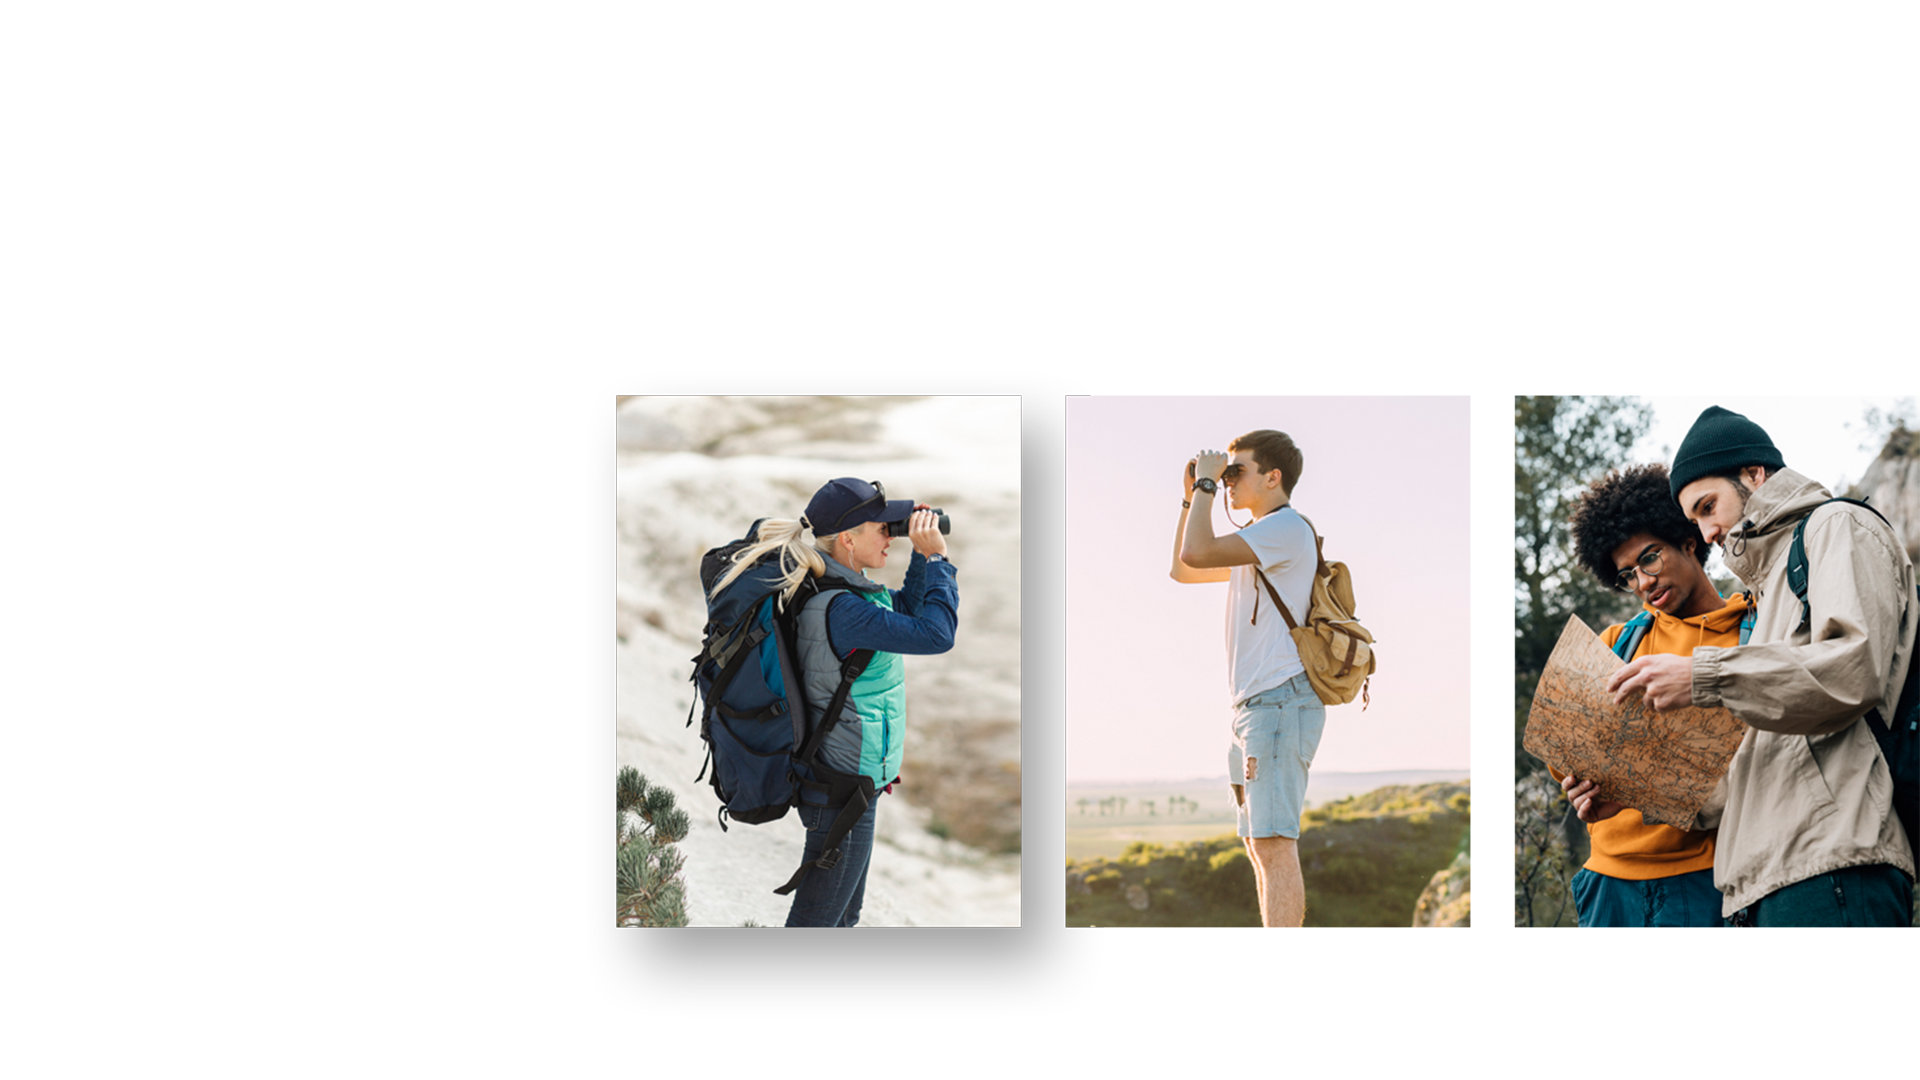
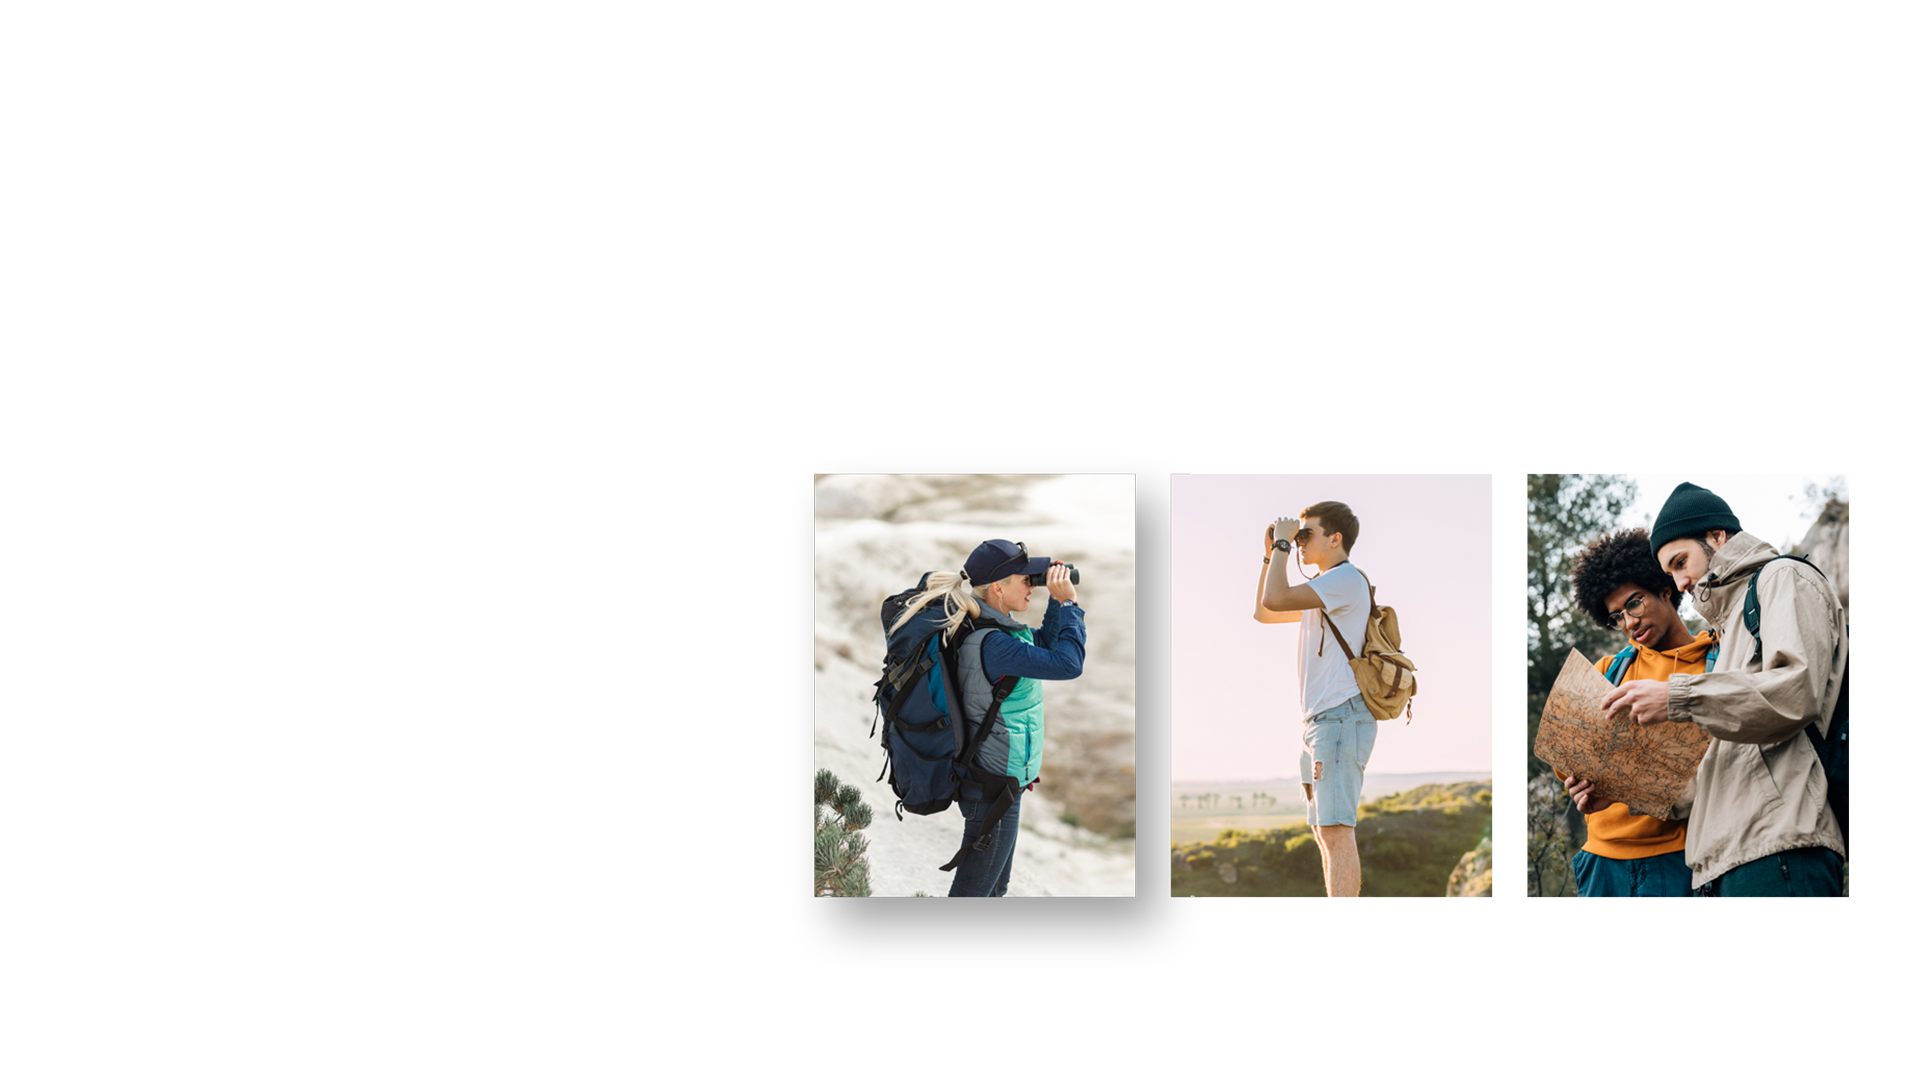
section two done

Changed region(s): [[0.3125, 0.3667, 1.0, 0.9167]]

diff --git a/style.css b/style.css
@@ -34,49 +34,65 @@ flex-direction:row;
        width: 100%;
        height: 100%;
      }
-     .background2{
-       width: 100%;
-       height: 100%;
-     }
-    .text1{
-        padding-right:50px;
-        font-family: Rozha One;
-        font-weight: 10;
-        font-style: normal;
-        font-size: 20px;
-        letter-spacing: .01em;
-        line-height:50px;
-        text-transform: none;
-    }
-
-    .tx1 {
-        font-style:normal;
-        font-size:35px;
-
-    }
-    .tx2{
-        font-style: oblique;
-        font-weight: lighter;
-    }
-
-
-    .box2{
-        background-color: #d646cc;
-        align-items:center;
-    }
-
-
-.title{
-    text-align: center;
-
-}
+    
 .sec1 {
  text-align:center;
  text-decoration: underline #a5aad3 15px;
 }
 
-  
 
+.sec2{
+    background: white;
+    padding-left:80px;
+    display: flex;
+    flex-direction: row;
+ 
+}
+  
+.text1{
+    align-items: center;
+    padding-top:150px;
+font-size: 65px;
+color: #8aa5cf;
+
+}
+.styled {
+    border: 0;
+    line-height: 2.5;
+    padding: 0 25px;
+    font-size: 1rem;
+    text-align: center;
+    color: white;
+    text-shadow: 1px 1px 1px #000;
+    border-radius: 10px;
+    background-color: #8aa5cf;
+    margin-left: 80px;
+    
+    box-shadow: inset 2px 2px 3px rgba(255, 255, 255, .6),
+                inset -2px -2px 3px rgba(0, 0, 0, .6);
+}
+
+.styled:hover {
+    background-color: #8aa5cf(255, 0, 0, 1);
+}
+
+.styled:active {
+    box-shadow: inset -2px -2px 3px rgba(255, 255, 255, .6),
+                inset 2px 2px 3px rgba(0, 0, 0, .6);
+}
+
+
+.text2{
+    width:300px;
+    padding-right:70px; }
+.pictures{
+  display:flex;
+  flex-direction: row;
+  padding-left: 500px;
+ 
+  width:400px;
+  height: 450px;
+}
 .blog{
     text-align: center;
     padding-top:50px;

diff --git a/index.html b/index.html
@@ -6,7 +6,7 @@
 </head>
 
 <body>
-                        
+
         <div class="topnav">
                 <a class="active" href="#home"></a>
 
@@ -19,33 +19,45 @@
 
 
                 <img class="logo" src="logo.png">
-        </div>
+
                 <img class="background1" src="background1.png">
         </div>
 
 
-        <div class="container">
-                
-
-                
-        </div>
-</div>
-
-
         <div class="sec2">
-        <img class="background2" src="background2.png">
-       
-        
-</div>
+                <h1 class="text1">JOIN TO THE CLUB</h1>
         </div>
+        <div class="sec2">
+                <h2 class="text2">Lorem ipsum dolor sit amet consectetur adipisicing elit. Pariatur reiciendis
+                        recusandae nam quidem doloremque aperiam voluptate! Officiis vel aspernatur tenetur architecto
+                        iure ipsam saepe dolorum, deserunt, minima autem natus repudiandae.Lorem ipsum dolor sit amet
+                        consectetur adipisicing elit.</h2>
+
+
+                <div class="pictures">
+
+                        <img class="img2" src="pic2.jpg">
+                        <img class="img4" src="pic4.jpg">
+                        <img class="img3" src="pic3.jpg">
+
+
+                </div>
+
+        </div>
+        <button class="favorite styled" type="button">
+              Learn More
+        </button>
+        </div>
+
+
         <div class="blog">
                 <img class="blog" src="blog.png">
                 <div class="slideshow-container">
 
-                        
-                    </div>
+
+                </div>
         </div>
-</div>
+        </div>
 
 </body>
 
